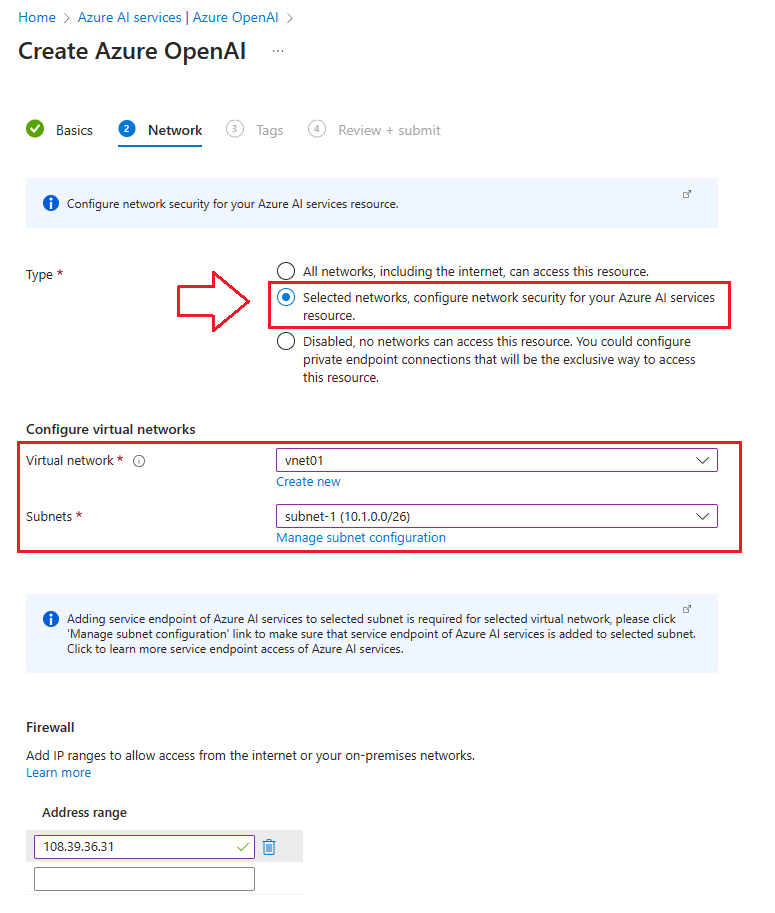
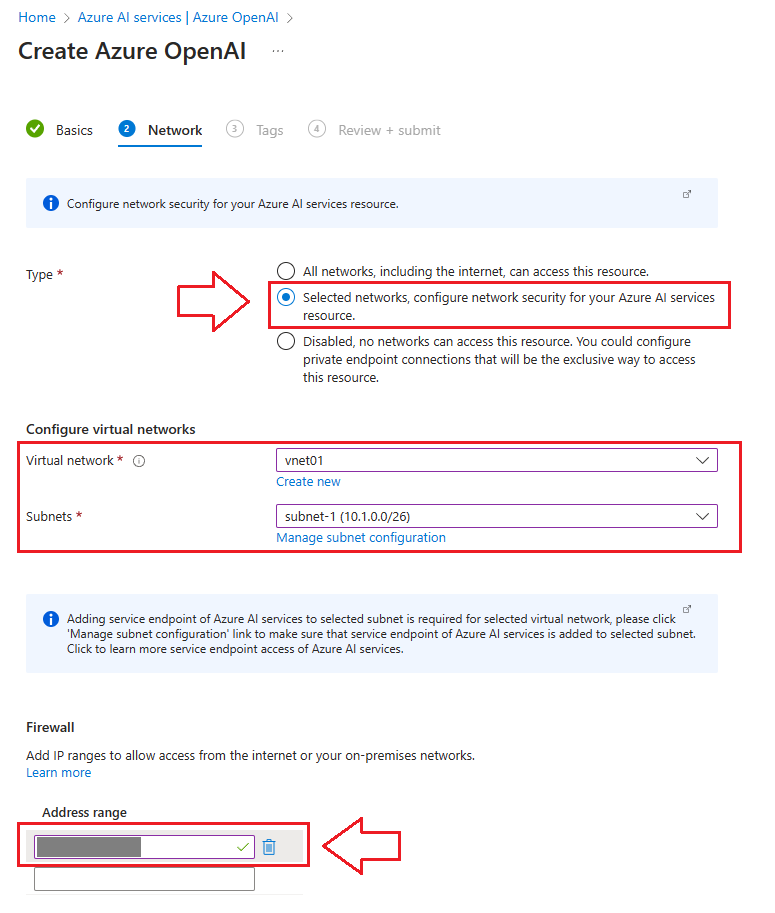
Covered up to "Networking"

Changed region(s): [[0.0, 0.8894, 0.4335, 0.9507], [0.4335, 0.8894, 0.5265, 0.9507]]

diff --git a/_posts/Configure-a-ChatBot-with-Azure-OpenAI-Studio.md b/_posts/Configure-a-ChatBot-with-Azure-OpenAI-Studio.md
@@ -11,17 +11,43 @@ Spinning up your own Chat Bot/LLM is _**way easier**_ than you might think. Woul
 - Easily build and deploy an LLM that can understand the nuances of language like never before
 - Leverage your LLM to write better KQL queries!
 
+
+# Step-by-Step:
+Log into your [Azure Portal](https://www.portal.azure.com) and search for **Azure Open AI** as illustrated below:
+
 ![](/assets/img/OpenAI/Setup/1_search.png)
 
 <br/>
+
+Select **+Create**
 
 ![](/assets/img/OpenAI/Setup/2.png)
 
 <br/>
 
+# Basics
+This next window has several fields we need to populate, shown below: 
+
+1. Select which **Subscription** you'd like to build this under
+2. Select an appropriate **Resource Group** 
+3. Select your **Region** (I like to keep this the same as your Sub for simplicity)
+4. **Name** your Azure OpenAI GPT-3 model
+5. Select your **Pricing Tier** 
+
 ![](/assets/img/OpenAI/Setup/3.png)
 
 <br/>
+
+# Networking
+This next part is very important from a **security perspective:**
+- Select _All networks, **including the internet,** can access this resource_ **at your own risk.**
+- It's _more secure_ to lock this resource down and create an exception on the firewall for your public IP address. 
+- Create or Select a **virtual network** and **subnet**
+- Define your public IP address 
+
+Note: Unless you have a persistent public IP address through your ISP, your public IP will change from time to time. When this happens, you will not be able to access your chatbot in Azure OpenAI Studio. You can go to [IP Chicken](www.ipchicken.com) to quickly find your public IP address
+
+
 
 ![](/assets/img/OpenAI/Setup/4.png)
 
@@ -87,10 +113,6 @@ Spinning up your own Chat Bot/LLM is _**way easier**_ than you might think. Woul
 
 <br/>
 
-![](/assets/img/OpenAI/Setup/22.png)
-
-<br/>
-
 ![](/assets/img/OpenAI/Setup/23_config.png)
 
 <br/>
@@ -108,6 +130,10 @@ Spinning up your own Chat Bot/LLM is _**way easier**_ than you might think. Woul
 <br/>
 
 ![](/assets/img/OpenAI/Setup/27_introduction%20paragraph.png)
+
+<br/>
+
+![](/assets/img/OpenAI/Setup/22.png)
 
 <br/>
 
